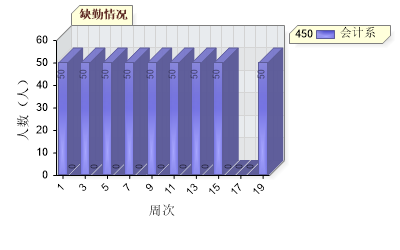
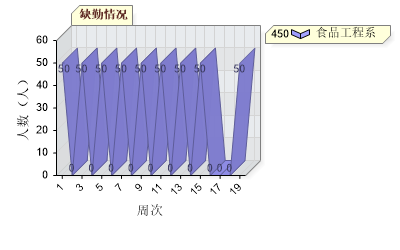
领导系部分析

Changed region(s): [[0.12, 0.084, 0.93, 0.784], [0.33, 0.812, 0.45, 0.868]]

diff --git a/Solution1/UI/领导/DapartmentForm.aspx.cs b/Solution1/UI/领导/DapartmentForm.aspx.cs
@@ -38,10 +38,10 @@ public partial class 领导_FTRform : System.Web.UI.Page
         Charting c = new Charting();
 
    
-        c.Title = "缺勤情况";
+        c.Title = "系部缺勤情况";
        c.XTitle = "周次";
         c.YTitle = "人数（人）";
-        c.PicHight = 250;        c.PicWidth = 400;
+        c.PicHight =500;        c.PicWidth = 400;
         c.PhaysicalImagePath = "ChartImages";//统计图片存放的文件夹名称，缺少对应的文件夹生成不了统计图片
        c.FileName = "Statistics51aspx";
         if (type== "Column")

diff --git a/Solution1/UI/管理员/Kaoqinfenxi.aspx.cs b/Solution1/UI/管理员/Kaoqinfenxi.aspx.cs
@@ -36,9 +36,9 @@ public partial class 管理员_Queqinfenxi : System.Web.UI.Page
     {
         Charting c = new Charting();
 
-        c.Title = "缺勤情况";
+        c.Title = "考勤情况";
        c.XTitle = "周次";
-        c.YTitle = "人数（人）";
+        c.YTitle = "未考勤教师人数（人）";
         c.PicHight = 250;        c.PicWidth = 400;
         c.PhaysicalImagePath = "ChartImages";//统计图片存放的文件夹名称，缺少对应的文件夹生成不了统计图片
        c.FileName = "Statistics51aspx";

diff --git a/Solution1/UI/管理员/Zuoyefenxi.aspx.cs b/Solution1/UI/管理员/Zuoyefenxi.aspx.cs
@@ -36,9 +36,9 @@ public partial class 管理员_Queqinfenxi : System.Web.UI.Page
     {
         Charting c = new Charting();
 
-        c.Title = "缺勤情况";
+        c.Title = "作业情况";
        c.XTitle = "周次";
-        c.YTitle = "人数（人）";
+        c.YTitle = "未完成作业次数（次）";
         c.PicHight = 250;        c.PicWidth = 400;
         c.PhaysicalImagePath = "ChartImages";//统计图片存放的文件夹名称，缺少对应的文件夹生成不了统计图片
        c.FileName = "Statistics51aspx";

diff --git a/Solution1/UI/管理员/Zuoyetongji.aspx.cs b/Solution1/UI/管理员/Zuoyetongji.aspx.cs
@@ -36,9 +36,9 @@ public partial class 管理员_Queqinfenxi : System.Web.UI.Page
     {
         Charting c = new Charting();
 
-        c.Title = "缺勤情况";
+        c.Title = "作业情况";
        c.XTitle = "周次";
-        c.YTitle = "人数（人）";
+        c.YTitle = "作业次数（次）";
         c.PicHight = 250;        c.PicWidth = 400;
         c.PhaysicalImagePath = "ChartImages";//统计图片存放的文件夹名称，缺少对应的文件夹生成不了统计图片
        c.FileName = "Statistics51aspx";

diff --git a/Solution1/UI/领导/FTRform.aspx.cs b/Solution1/UI/领导/FTRform.aspx.cs
@@ -38,9 +38,9 @@ public partial class 领导_FTRform : System.Web.UI.Page
         Charting c = new Charting();
 
    
-        c.Title = "缺勤情况";
+        c.Title = "漏报情况";
        c.XTitle = "周次";
-        c.YTitle = "人数（人）";
+        c.YTitle = "漏报人数（人）";
         c.PicHight = 250;        c.PicWidth = 400;
         c.PhaysicalImagePath = "ChartImages";//统计图片存放的文件夹名称，缺少对应的文件夹生成不了统计图片
        c.FileName = "Statistics51aspx";

diff --git a/Solution1/UI/管理员/sdbi_MasterPage.master.cs b/Solution1/UI/管理员/sdbi_MasterPage.master.cs
@@ -47,6 +47,8 @@ public partial class sdbi_MasterPage : System.Web.UI.MasterPage
         {
             case "首页消息":
                 Response.Redirect("message.aspx"); break;
+            case "本校教师":
+                Response.Redirect("jiaoshichaxun.aspx"); break;
             case "修改密码":
                 Response.Redirect("alterPwd.aspx"); break;
             case "新增用户":

diff --git a/Solution1/UI/领导/DAform.aspx.cs b/Solution1/UI/领导/DAform.aspx.cs
@@ -95,6 +95,7 @@ public partial class 领导_FTRform : System.Web.UI.Page
         c.CreateStatisticPic(this.Chart1);
  
      }
+
     private void Department(string department)
     {
       
